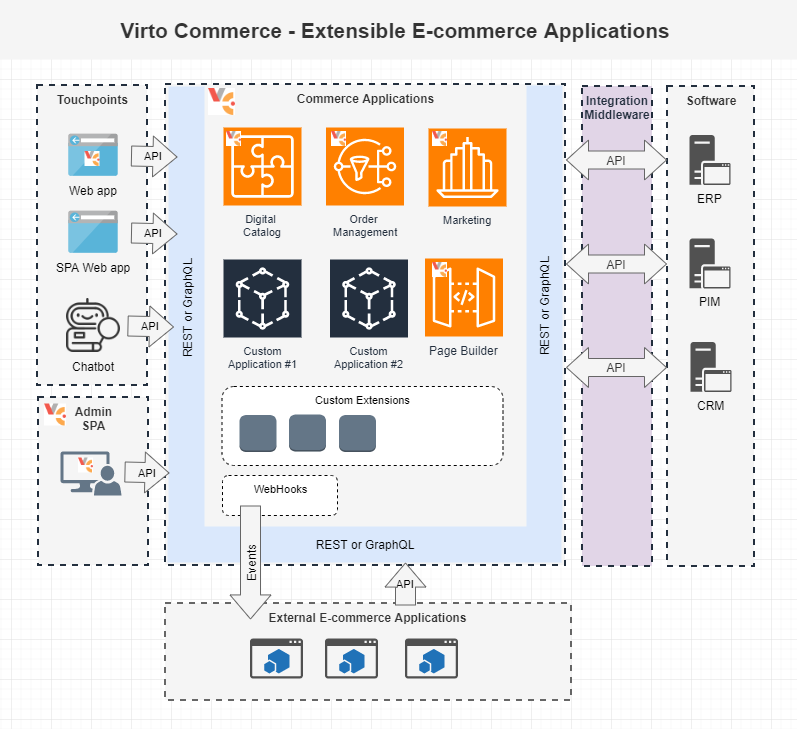
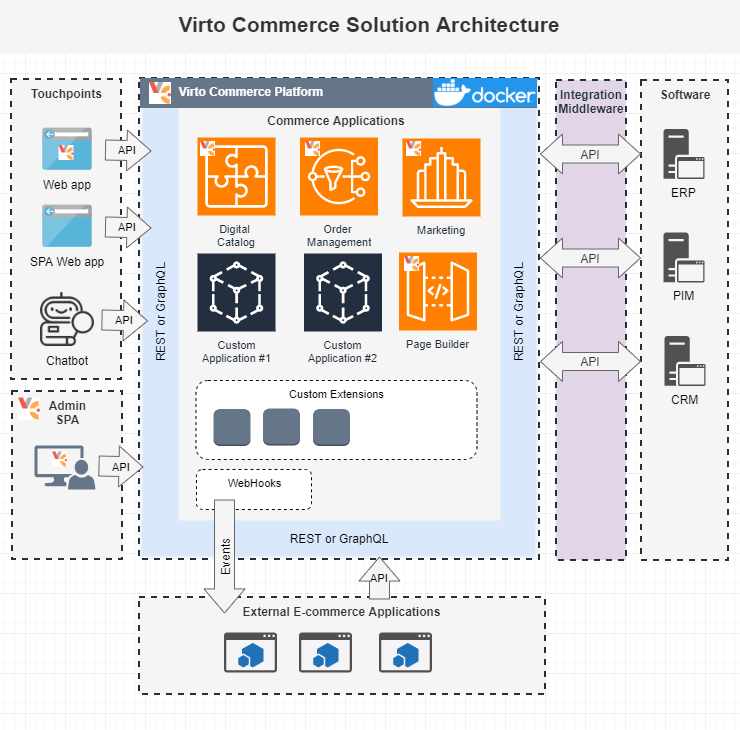
VCM-230-virtocommerce-overview (#1964)
* Updated Readme and Index
* Simplify ARM Template

diff --git a/docs/index.md b/docs/index.md
@@ -1,43 +1,122 @@
 # Overview
 
-## Virto Commerce - Extensible E-commerce Applications
+Virto Commerce is an open-source platform for an extensible e-commerce applications.
 
-Virto Commerce is Extensible e-commerce applications. Open-Source, .NET Core, API-first, Headless, Cloud Native. 
-Designed to build complex digital commerce solutions for B2B, B2C or B2B2C business, marketplaces and derived SaaS commerce platforms.
+Complex digital commerce solutions for B2B, B2C or B2B2C businesses, marketplaces and derived SaaS commerce platforms.
+
+Virto Commerce architecture was designed on principles: Microservices, API-first, Cloud-native, Headless, and Advanced Extensibility.
+
+## Principles
+The main principle is to help the development team to focus on the implementation of business features and don’t worry about **CLEAN ARCHITECTURE**.
+
+* **MICROSERVICES** – Every application is built from headless microservices (modules). Applications and microservices are not limited to the composite applications, they can be used for building any other application and hence are functionally independent. 
+* **API-FIRST** – E-commerce service with the right API design. All business logic is accessible via API: Rest or GraphQL. 
+* **CLOUD NATIVE** – E-commerce service is delivered in the SaaS model. Get significant benefits for the business from: 
+    1. *On-demand* - Use e-commerce service as a whole or its separate components as needed; 
+    1. *Scalability* - In the cloud, it can be easily scaled to support peak demand and long-term business growth; 
+    1. *Reliability* - Can leverage a solution deployed across multiple data centers and availability zones to maximize up-time and reduce potential revenue losses.
+* **HEADLESS** – Allows an enterprise to support omnichannel journeys across traditional and digital touchpoints as well as new business models.
+* **EXTENSIBILITY** – The API model, persistence model, business logic can be extended as needed without deploying and re-deploying solution. This provides superior business agility and keeps up to date.
 
 ## Architecture Overview
-The following diagram illustrates the high-level architecture and main areas of Virto Commerce solutions.
+The following diagram illustrates the high-level architecture and main areas of Virto Commerce solutions:
 
-![Architecture Reference](media/vc-architecture-reference.png)
+![Virto Commerce Architecture Reference](media/vc-architecture-reference.png)
 
-1. **Commerce Applications** - Extensible e-commerce applications. Each of the apps is complete by itself and not dependent on the functioning of the application. 
-The constituent apps have their own consumers and interaction points.
-1. **Custom Extensions** - Allow to extend API models, Persistent models and business logic in Commerce Applications. 
-1. **External Commerce Applications** - 3rd party e-commerce applications and services. 
-1. **Touchpoints** - Sell in your products on website, mobile application, chatbot or any through 3rd party services: Marketplace, Dropshipping, or whatever you create.
-  Virto Commerce Storefront allows managing different brands and stores. Under the same environment and with same features.
-1. **Admin SPA** - Extensible and intuitive user interface lets you manage data in Commerce Applications for all channels.
-1. **Integration middleware** - Asynchronous integration middleware for declarative integration with Non-Real-time and legacy services.
-1. **Legacy Software** - Legacy and Non-Real-time services and software. 
+**Virto Commerce Platform** - Launcher of e-commerce applications in the public, hybrid and private cloud. 
 
-### Principles
-Main principle is help development team to focus on implementation of business features and don’t worry about the common tasks, like:
+**Commerce Applications** - API-based, Modular and Extensible logical set of one or several headless microservices (modules) with focus on the implementation of the business feature, like Digital Catalog, Order Management, Content Management, Marketing, etc.
 
-* **CLEAN ARCHITECTURE** - Allows to create, customize, scale and maintain e-commerce applications.
-* **CLOUD NATIVE** - Deploy custom solution to Azure, AWS, Google cloud and native integration with cloud services.
-* **MODULARITY** – Every application is built from modules. Applications and modules are not limited to the composite applications, they can be used for building any other application and hence are functionally independent. 
+**Custom Extensions** - Virto Commerce Module which allows extending API-model, Persistent model, Business logic and Admin UI in Commerce Applications.
+
+**External Commerce Applications** - 3rd-party e-commerce applications and services. 
+
+**Touchpoints** - Sell in your products on the website, mobile application, chatbot or any through 3rd party services: Marketplace, Dropshipping, or whatever you create. Virto Commerce Storefront Kit allows managing different brands and store under the same environment and with same features.
+
+**Admin SPA** - Virto Commerce has an extensible and intuitive admin user interface. It lets you manage data in Commerce Applications for all channels.
+
+**Integration middleware** - Asynchronous integration middleware for declarative integration with Non-Real-time and legacy services.
+
+
+### Platform
+**Virto Commerce Platform** - is launcher of e-commerce applications in the cloud. It brings system functionality, modularity, dependency resolving, role-based security, API, etc.  
+
+### Applications
+**Commerce Application** - is API-based, Modular and Extensible logical set of one or several headless microservices (modules) with focus on the implementation of the business feature, like Digital Catalog, Order Management, Content Management, Marketing, etc.
+
+The following diagram illustrates the high-level architecture of Digital Catalog application, which by default consist of Catalog, Search, Pricing, Inventory, Personalization and Store modules:
+
+![Virto Commerce Application Architecture Reference](media/vc-architecture-application.png)
+
+Each of the applications is complete by itself and not dependent on the functioning of other applications. The constituent apps have their own consumers and interaction points. Selecting Commerce Application, you can configure the ecosystem based on your requirements. 
+
+The different applications can be deployed / launched in different isolated environments. The application can be scaled and run on multiple instances.
+
+The applications can be extended with custom modules. You can extend API model, persistence model, business logic and admin UI. For example, architecture reference includes Pricing Extensions which extend API model, Persistence model and Admin UI with the Recommended price field.
+
+### Modules
+**Virto Commerce Headless Microservice (Module)** - is a development unit. Can consist of one or several microservice. A module must fulfill a single purpose that is narrowly defined and easy to understand.
+
+The module is built on few principles:
+
 * **SINGLE RESPONSIBILITY** – Every module should be as simple as possible, so a new developer can support and improve it.
-* **HEADLESS** – All business logic are accessible via API: Rest and GraphQL.
-* **EXTENSIBILITY** – The API and Persistent models can be extended. Business logic can be customized. 
-* **SCALABILITY** – The solution should grow up with the business.
-* **SECURITY** – Role-based security as core functionality of the Virto Commerce.
-* **PERSONALIZATION** – Configure personalized Catalogs, Prices, Promotions, etc. based on organization structure, contracts and dynamic conditions.
+* **SECURITY** – Role-based security as the core functionality.
+* **FLEXIABILITY** – Configure data and relations based on organization structure, contracts and dynamic conditions.
 
-## Technology Stack Used
+The following diagram illustrates the different type of modules:
+
+**Single Responsibility** - allows to implement an isolated business feature. For example: Pricing.
+ 
+![Single Responsibility-Types of Virto Commerce Headless Microservice](media/vc-architecture-module-types-1.png)
+
+**Multiservices** - host of several microservices, for example Bundle microservice uses Catalog as primary data-storage.
+
+![Multiservices-Types of Virto Commerce Headless Microservice](media/vc-architecture-module-types-3.png)
+
+**Extensions** - The API model, persistence model, business logic can be extended as needed without deploying and re-deploying solution. 
+
+![Extensions-Types of Virto Commerce Headless Microservice](media/vc-architecture-module-types-2.png)
+
+**The orchestration** - aggregate information from multiple microservices and provide one API, for-example provide access to Personalized Offers.
+
+![Orchestration-Types of Virto Commerce Headless Microservice](media/vc-architecture-module-types-4.png)
+
+### Inner Structure of the Module
+
+The module can use a lot out-of-the box additional services from Virto Commerce Platform. The following diagram illustrates the inner structure and services which are accessible for developers:
+
+![Architecture Reference](media/vc-architecture-module.png)
+
+1. **Module Manifest** - gives the information about the module, such as the most important files, dependencies and the capabilities the extension might use.
+1. **Tests and Documentation** - an important part of any module, which helps a new developer to learn and improve it.
+1. **API** - All business logic accessible via API: Rest or GraphQL.
+1. **Security** - access to API is limited by permissions.
+1. **Admin UI (optional)** - the module provides the intuitive admin user interface. It lets you manage data in Admin SPA. 
+1. **Cache (optional)** - From the business logic, you can use distributed cache to improve performance. 
+1. **Business Logic** - The module solution structure is constructed using N-Tier and DDD principle and it is a business unit that is able to fully provide a set of desired features.
+1. **Events (optional)** - From the business logic, you can send internal and external events (Webhooks).
+1. **Database** - The module has a repository and doesn't have a connection with other modules on the database layer. The module can have custom connection string and store data in the custom database. 
+1. **Background Jobs (optional)** - The module can run long-running operations as Background Jobs.
+1. **Log/Monitoring** - The module has native integration with Azure Application Insights service, as Native monitoring tool for .NET Core applications.
+
+## Scalability
+In the cloud, the Virto Commerce Applications can be easily scaled to support peak demand and long-term business growth.
+With auto-scale, you no longer have to worry about scaling services manually. 
+
+## Monitoring
+Virto Commerce Applications has native integrations with [Azure Application Insights](https://azure.microsoft.com/en-us/services/monitor/).
+
+Azure Application Insights is an extensible Application Performance Management (APM) service for developers and DevOps professionals.
+You use it to monitor live applications. It will automatically detect performance anomalies, and includes powerful analytics tools to help you diagnose issues and to understand what users actually do with your app.
+It's designed to help you continuously improve performance and usability.
+It works for apps on a wide variety of platforms including .NET, Node.js, Java, and Python hosted on-premises, hybrid, or any public cloud.
+It integrates with DevOps process, and has connection points to a variety of development tools.
+
+## Technology Stack
 
 In our work, we always try to use advanced technologies. Our decision to choose technologies described below was the result of our extensive experience working with Microsoft products.
 
-We decided to use the following stack of technologies:
+Virto Commerce uses following stack of technologies:
 
 * ASP.NET Core 3.1.0
 * EF Core 3.1.0 as primary ORM
@@ -48,24 +127,3 @@ We decided to use the following stack of technologies:
 * SignalR Core for push notifications
 * AngularJS 1.4 as primary framework for SPA
 * HangFire 1.7.8 for run background tasks
-
-## Comparison with Platform 2.x
-
-In the new version, we change primary technology stack to .NET Core for the platform application and all key modules. Eliminate known technical and architecture design issues of 2.x version (Caching, Overloaded core module, Asynchronous code, Platform Complexity, Extensibility, Performance, Authentication and Authorization)
-Improve the extensibility and unification of the application. Unified architecture and good architecture practices usage reduce the training time for developers who just start to work with Virto Commerce.
-
-Virto Commerce Platform 3 helps you increase development speed and significantly reduce time to market.
-
-## Introduction to Virto Commerce
-
-These Virto Commerce docs help you learn and use the Virto Commerce platform, from your local solution to optimizing complex enterprise solutions. 
-
-* [What’s new](release-information/whats-new.md)
-* [Deploy on Windows](getting-started/deploy-from-precompiled-binaries-windows.md)
-* [Deploy on Linux](getting-started/deploy-from-precompiled-binaries-linux.md)
-* [Deploy to Azure](getting-started/deploy-from-precompiled-binaries-azure.md)
-* [Deploy on MacOS](getting-started/deploy-from-precompiled-binaries-MacOS.md)
-* [Connect Storefront to Platform](getting-started/connect-storefront-to-platform-v3)
-* [Deploy Platform 3 from source code](developer-guide/deploy-from-source-code.md)
-* [Getting Started](user-guide/getting-started.md)
-* [Update to version 3](release-information/update-to-version-3/update-module-from-platform-2.0-to-version-3.md)

diff --git a/README.md b/README.md
@@ -1,38 +1,43 @@
-# Virto Commerce - Extensible Ecommerce Applications
+# Virto Commerce Platform - Extensible Ecommerce Applications
 
 [![Deploy to Azure](https://aka.ms/deploytoazurebutton)](https://portal.azure.com/#create/Microsoft.Template/uri/https%3A%2F%2Fraw.githubusercontent.com%2FVirtoCommerce%2Fvc-platform%2Fmaster%2Fazuredeploy.json)
 
-Virto Commerce is Extensible e-commerce applications. Open-Source, .NET Core, API-first, Headless, Cloud Native. 
-Designed to build complex digital commerce solutions for B2B, B2C or B2B2C business, marketplaces and derived SaaS commerce platforms.
+Virto Commerce is an open-source platform for an extensible e-commerce applications.
 
+Complex digital commerce solutions for B2B, B2C or B2B2C businesses, marketplaces and derived SaaS commerce platforms.
 
+Virto Commerce architecture was designed on principles: Microservices, API-first, Cloud-native, Headless, and Advanced Extensibility.
+
+## Principles
+The main principle is to help the development team to focus on the implementation of business features and don’t worry about **CLEAN ARCHITECTURE**.
+
+* **MICROSERVICES** – Every application is built from headless microservices (modules). Applications and microservices are not limited to the composite applications, they can be used for building any other application and hence are functionally independent. 
+* **API-FIRST** – E-commerce service with the right API design. All business logic is accessible via API: Rest or GraphQL. 
+* **CLOUD NATIVE** – E-commerce service is delivered in the SaaS model. Get significant benefits for the business from: 
+    1. *On-demand* - Use e-commerce service as a whole or its separate components as needed; 
+    1. *Scalability* - In the cloud, it can be easily scaled to support peak demand and long-term business growth; 
+    1. *Reliability* - Can leverage a solution deployed across multiple data centers and availability zones to maximize up-time and reduce potential revenue losses.
+* **HEADLESS** – Allows an enterprise to support omnichannel journeys across traditional and digital touchpoints as well as new business models.
+* **EXTENSIBILITY** – The API model, persistence model, business logic can be extended as needed without deploying and re-deploying solution. This provides superior business agility and keeps up to date.
+* 
 ## Architecture Overview
-The following diagram illustrates the high-level architecture and main areas of Virto Commerce solutions.
+The following diagram illustrates the high-level architecture and main areas of Virto Commerce solutions:
 
-![Architecture Reference](docs/media/vc-architecture-reference.png)
+![Virto Commerce Architecture Reference](docs/media/vc-architecture-reference.png)
 
-1. **Commerce Applications** - Extensible e-commerce applications. Each of the apps is complete by itself and not dependent on the functioning of the application. 
-The constituent apps have their own consumers and interaction points.
-1. **Custom Extensions** - Allow to extend API models, Persistent models and business logic in Commerce Applications. 
-1. **External Commerce Applications** - 3rd party e-commerce applications and services. 
-1. **Touchpoints** - Sell in your products on website, mobile application, chatbot or any through 3rd party services: Marketplace, Dropshipping, or whatever you create.
-  Virto Commerce Storefront allows managing different brands and stores. Under the same environment and with same features.
-1. **Admin SPA** - Extensible and intuitive user interface lets you manage data in Commerce Applications for all channels.
-1. **Integration middleware** - Asynchronous integration middleware for declarative integration with Non-Real-time and legacy services.
-1. **Legacy Software** - Legacy and Non-Real-time services and software. 
+**Virto Commerce Platform** - Launcher of e-commerce applications in the public, hybrid and private cloud. 
 
-### Principles
-Main principle is help development team to focus on implementation of business features and don’t worry about the common tasks, like:
+**Commerce Applications** - API-based, Modular and Extensible logical set of one or several headless microservices (modules) with focus on the implementation of the business feature, like Digital Catalog, Order Management, Content Management, Marketing, etc.
 
-* **CLEAN ARCHITECTURE** - Allows to create, customize, scale and maintain e-commerce applications.
-* **CLOUD NATIVE** - Deploy custom solution to Azure, AWS, Google cloud and native integration with cloud services.
-* **MODULARITY** – Every application is built from modules. Applications and modules are not limited to the composite applications, they can be used for building any other application and hence are functionally independent. 
-* **SINGLE RESPONSIBILITY** – Every module should be as simple as possible, so a new developer can support and improve it.
-* **HEADLESS** – All business logic are accessible via API: Rest and GraphQL.
-* **EXTENSIBILITY** – The API and Persistent models can be extended. Business logic can be customized. 
-* **SCALABILITY** – The solution should grow up with the business.
-* **SECURITY** – Role-based security as core functionality of the Virto Commerce.
-* **PERSONALIZATION** – Configure personalized Catalogs, Prices, Promotions, etc. based on organization structure, contracts and dynamic conditions.
+**Custom Extensions** - Virto Commerce Module which allows extending API-model, Persistent model, Business logic and Admin UI in Commerce Applications.
+
+**External Commerce Applications** - 3rd-party e-commerce applications and services. 
+
+**Touchpoints** - Sell in your products on the website, mobile application, chatbot or any through 3rd party services: Marketplace, Dropshipping, or whatever you create. Virto Commerce Storefront Kit allows managing different brands and store under the same environment and with same features.
+
+**Admin SPA** - Virto Commerce has an extensible and intuitive admin user interface. It lets you manage data in Commerce Applications for all channels.
+
+**Integration middleware** - Asynchronous integration middleware for declarative integration with Non-Real-time and legacy services.
 
 
 ## Technology Stack Used
@@ -50,12 +55,6 @@ We decided to use the following stack of technologies:
 * SignalR Core for push notifications
 * AngularJS 1.4 as primary framework for SPA
 * HangFire 1.7.8 for run background tasks
-
-## Solution Architecture Principles Overview
-
-<a class="crosslink" href="https://virtocommerce.com/glossary/what-is-b2b-ecommerce" target="_blank">Platform and modules</a> are written using <a href="https://en.wikipedia.org/wiki/Domain-driven_design" rel="nofollow">DDD</a>, <a href="https://en.wikipedia.org/wiki/SOLID_(object-oriented_design)" rel="nofollow">SOLID</a>, <a href="https://en.wikipedia.org/wiki/Test-driven_development" rel="nofollow">Test Driven Development</a> methodologies. For a presentation layer, we use <a href="https://en.wikipedia.org/wiki/Model_View_ViewModel" rel="nofollow">MVVM</a>.
-
-<img src="docs/media/architecture-circle.png" title="Virto Commerce 3 Architecture" width="400">
 
 ## Introduction to Virto Commerce
 

diff --git a/docs/getting-started/deploy-from-precompiled-binaries-azure.md b/docs/getting-started/deploy-from-precompiled-binaries-azure.md
@@ -1,38 +1,23 @@
 # Deploy to Azure
-Use this guide to <a class="crosslink" href="https://virtocommerce.com/ecommerce-hosting" target="_blank">deploy</a> to Azure and configure Virto Commerce Platform.
 
-!!! note
-    You can install modules and sample data later from Virto Commerce Admin UI.
+## Deploy Platfrom
+You can deploy Virto Commerce Platform to Azure Cloud. To run the deployment of Platform, select the following button:
 
-Virto Commerce Team creates default ARM template [azuredeploy.json](https://github.com/VirtoCommerce/vc-platform/blob/master/azuredeploy.json) to simplify deployment of Virto Commerce Platform to Azure.
-You can use this template as base for your custom solution.
-Read [Azure Resource Manager documentation](https://docs.microsoft.com/en-us/azure/azure-resource-manager/).
+[![Deploy to Azure](https://aka.ms/deploytoazurebutton)](https://portal.azure.com/#create/Microsoft.Template/uri/https%3A%2F%2Fraw.githubusercontent.com%2FVirtoCommerce%2Fvc-platform%2Fmaster%2Fazuredeploy.json)
 
 The following resources will be created during deployment:
  
-* Azure Storage - as Primary blob storage for CMS and Assets.
-* SQL Azure - database.
-* Website - Virto Commerce Platform.
+* **Website** - Virto Commerce Platform.
+* **Azure Storage** - as Primary blob storage for CMS and Assets.
+* **SQL Azure** - database.
 
-
-## From GitHub
-This sections describes how to use the Deploy to Azure button to deploy Virto Commerce Platform from a GitHub repository.
-
-!!! note
-    * When a user clicks on the **Deploy to Azure** button, a “referrer” header is sent to azuredeploy.net which contains the location of the Git repository to deploy from.
-    * This scenario is good if you want to install Virto Commerce platform from the sources.
 
 !!! tip
     * Deploy problem can be related of using “Free” plan, change to Basic or Standard. [Read More](https://www.virtocommerce.org/t/deploy-virto-commerce-to-azure-and-getting-a-deployment-failure/72).
     * Your login name must not contain a SQL Identifier or a typical system name (like admin, administrator, sa, root, dbmanager, loginmanager, etc.) or a built-in database user or role (like dbo, guest, public, etc.)
     * Your password must be at least 8 characters in length.
     * Your password must contain characters from three of the following categories – English uppercase letters, English lowercase letters, numbers (0-9), and non-alphanumeric characters (!, $, #, %, etc.).
-
-This sections describes how to deploy Virto Commerce Platform from Custom [azuredeploy.json](https://github.com/VirtoCommerce/vc-platform/blob/master/azuredeploy.json) ARM Template.
-
-To run the deployment of Platform, select the following button:
-
-[![Deploy to Azure](https://aka.ms/deploytoazurebutton)](https://portal.azure.com/#create/Microsoft.Template/uri/https%3A%2F%2Fraw.githubusercontent.com%2FVirtoCommerce%2Fvc-platform%2Fmaster%2Fazuredeploy.json)
+    * You can install modules and sample data later from Virto Commerce Admin UI.
 
 1. The portal displays a pane that allows you to easily provide parameter values. The parameters are pre-filled with the default values from the template.
     ![Deploy to azure - custom template](../media/deploy-to-azure-custom-wizard.png)
@@ -40,7 +25,8 @@ To run the deployment of Platform, select the following button:
 1. Select **Purchase**. 
     ![Deploy to azure - custom template](../media/deploy-to-azure-customtemplate-purchase.png)
 1. Wait until the deployment has been completed.
-1. Open url in your browser. 
+1. Copy **WebSite URL**, **Content Storage Connection String** from output.
+1. Open **WebSite URL** in your browser. 
 1. The application will create and initialize database on the first request. After that you should see the sign in page. Use the following credentials:
     * User Name: **admin**
     * Password: **store**
@@ -49,19 +35,22 @@ To run the deployment of Platform, select the following button:
     ![Deploy to azure](../media/deploy-to-azure-vc-restart.png)
 1. Install sample data if required. 
 
-## Storefront from GitHub
+## Deploy Storefront
 
-This sections describes how to deploy Virto Commerce Storefront from Custom [azuredeploy.json](https://github.com/VirtoCommerce/vc-platform/blob/master/azuredeploy.json) ARM Template.
-
-!!! note
-    The Virto Commerce Platform should be installed. 
-
-To run the deployment of Storefront, select the following button:
+You can deploy Virto Commerce Storefront to Azure Cloud. To run the deployment of Platform, select the following button:
 
 [![Deploy to Azure](https://aka.ms/deploytoazurebutton)](https://portal.azure.com/#create/Microsoft.Template/uri/https%3A%2F%2Fraw.githubusercontent.com%2FVirtoCommerce%2Fvc-storefront%2Fmaster%2Fazuredeploy.json)
 
+The following resources will be created during deployment:
+
+* **Website** - Virto Commerce Storefront.
+
+!!! note
+    1. The Virto Commerce Platform should be installed. 
+    1. Sample data should be installed or a Store should be configured.
+
 !!! tip
-    How to get Content Storage Connection String:
+    How to get Content Storage Connection String if you have not copied it from platform deployment:
 
     1. Open [Azure Portal](https://portal.azure.com/)
     1. Select **Storage Account** which you created when deploy the Virto Commerce Platform.
@@ -78,11 +67,12 @@ To run the deployment of Storefront, select the following button:
 1. Wait until the deployment has been completed.
 1. Open url in your browser.  
 
+## Extra Deployment
 
-## Deploy via PowerShell
+### Deploy via PowerShell
 Read [Azure Resource Manager documentation](https://docs.microsoft.com/en-us/azure/azure-resource-manager/templates/deploy-powershell) to
 deploy Virto Commerce Platform from Custom Template [azuredeploy.json](https://github.com/VirtoCommerce/vc-platform/blob/master/azuredeploy.json) to Azure via PowerShell.
 
-## Deploy via Azure CLI
+### Deploy via Azure CLI
 Read  [Azure Resource Manager documentation](https://docs.microsoft.com/en-us/azure/azure-resource-manager/templates/deploy-cli) to
 deploy Virto Commerce Platform from Custom Template [azuredeploy.json](https://github.com/VirtoCommerce/vc-platform/blob/master/azuredeploy.json)  to Azure via CLI.
